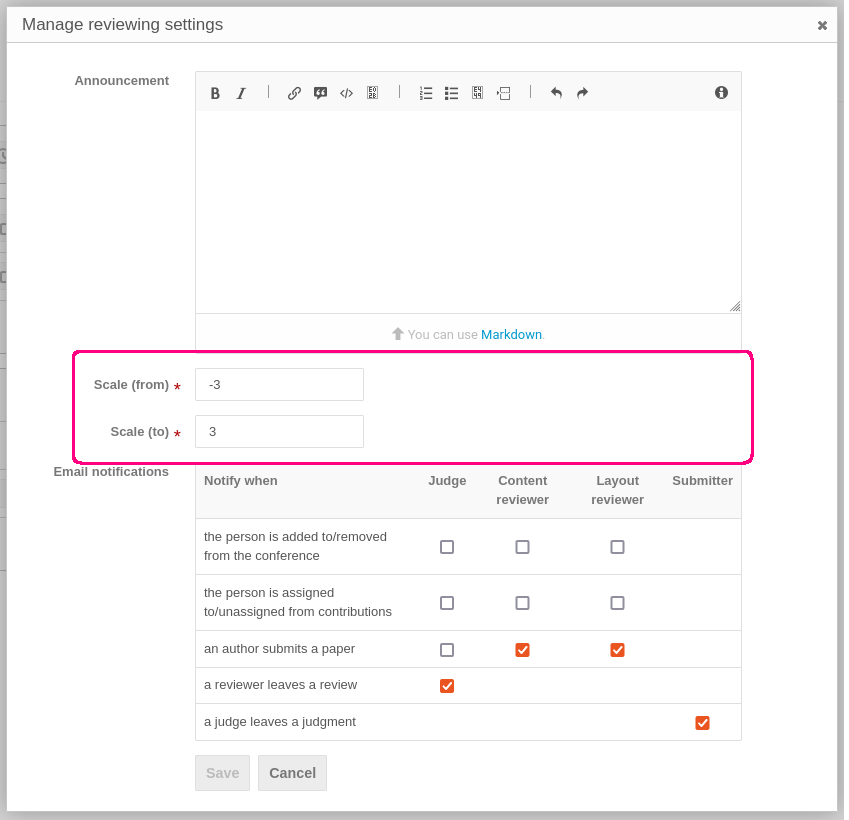
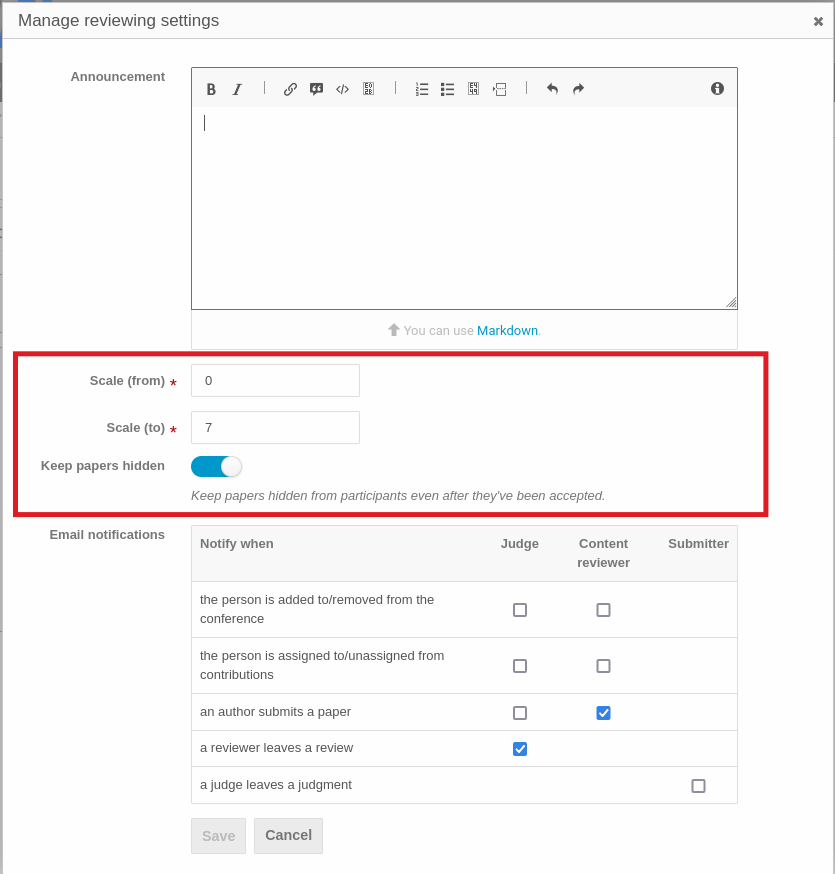
Keep papers hidden flag (peer review)

diff --git a/docs/Paper/LPRsetup.md b/docs/Paper/LPRsetup.md
@@ -87,6 +87,8 @@ The scale of the rating questions (the minimum and maximum value) is the same fo
 
 ---
 
+Please be also sure to **set the** "**Keep papers hidden**" flag in the settings, as shown in the picture above. If not, all accepted papers will be downloadable by anybody from their contribution page. We don't want this to happen, since the papers must still go through the editing process and eventually be published in the final proceedings.
+
 ## Setting up paper judging
 
 The only setting available specifically for judges is the judging deadline, which works the same way as the reviewing deadlines explained previously.
